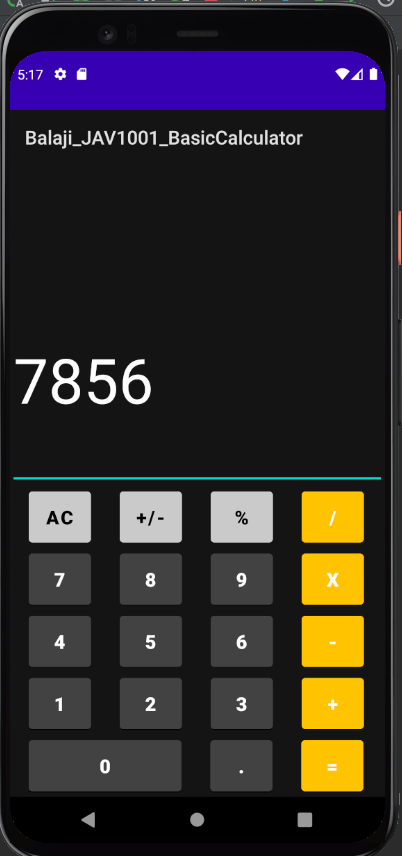
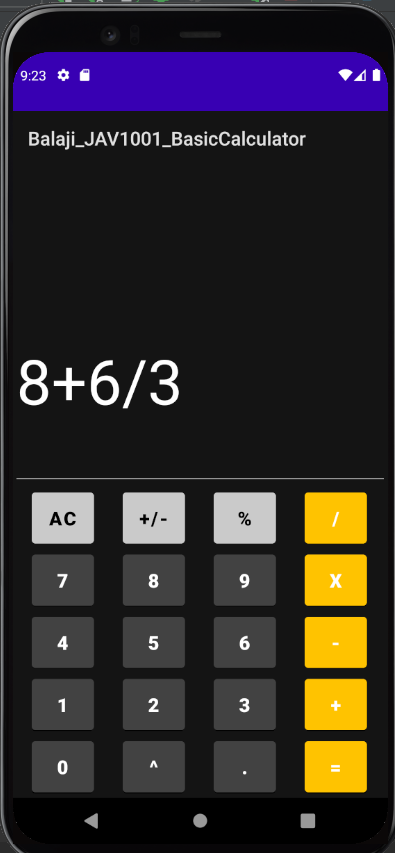
Added power of a number in the code.

Changed region(s): [[0.0, 0.0, 1.0, 1.0], [0.0608, 0.1524, 0.7899, 0.1829]]

diff --git a/app/src/main/java/balaji/ch/balaji_jav1001_basiccalculator/MainActivity.java b/app/src/main/java/balaji/ch/balaji_jav1001_basiccalculator/MainActivity.java
@@ -34,6 +34,7 @@ public class MainActivity extends AppCompatActivity implements View.OnClickListe
         Button buttonEight = findViewById(R.id.buttonEight);
         Button buttonNine = findViewById(R.id.buttonNine);
         Button buttonDecimal = findViewById(R.id.buttonDecimal);
+        Button buttonPower = findViewById(R.id.buttonPower);
 
         Button buttonAddition = findViewById(R.id.buttonAddition);
         Button buttonSubtract = findViewById(R.id.buttonSubtract);
@@ -57,6 +58,7 @@ public class MainActivity extends AppCompatActivity implements View.OnClickListe
         buttonEight.setOnClickListener(this);
         buttonNine.setOnClickListener(this);
         buttonDecimal.setOnClickListener(this);
+        buttonPower.setOnClickListener(this);
 
         buttonAddition.setOnClickListener(this);
         buttonSubtract.setOnClickListener(this);
@@ -74,6 +76,7 @@ public class MainActivity extends AppCompatActivity implements View.OnClickListe
         Button buttonDecimal = findViewById(R.id.buttonDecimal);
         editTextString = String.valueOf(editTextTV.getText());
 
+//        Making the decimal value to be inserted only once 
         if (view.getId() == R.id.buttonDecimal){
             buttonDecimal.setEnabled(false);
         }else if(view.getId() == R.id.buttonAddition || view.getId() == R.id.buttonSubtract ||
@@ -82,21 +85,6 @@ public class MainActivity extends AppCompatActivity implements View.OnClickListe
             buttonDecimal.setEnabled(true);
 
         }
-
-//        Letting the decimal value to be clicked only once
-//        if(editTextString.contains(".")){
-//            int indexOfPriorChar = editTextString.indexOf('.') - 1;
-//            if (indexOfPriorChar<0){ indexOfPriorChar = 0;}
-//
-//            if (Character.isDigit(editTextString.charAt(indexOfPriorChar)) && editTextString.charAt(indexOfPriorChar) != '.'){
-//                buttonDecimal.setEnabled(true);
-//            }
-//            else{
-//                buttonDecimal.setEnabled(false);
-//            }
-//        } else{
-//            buttonDecimal.setEnabled(true);
-//        }
 
 //Calculate when buttons are clicked
         switch(view.getId()){
@@ -142,8 +130,6 @@ public class MainActivity extends AppCompatActivity implements View.OnClickListe
                 break;
 
             case R.id.buttonDecimal:
-                // if prevCHar != digit
-                //      0 first
                 char prev = editTextString.length() > 0 ?
                         editTextString.charAt(editTextString.length() - 1) : '\0';
                 if (Character.isDigit(prev)){
@@ -192,6 +178,10 @@ public class MainActivity extends AppCompatActivity implements View.OnClickListe
                 }
                 editTextTV.setText(editTextString);
                 break;
+            case R.id.buttonPower:
+                editTextString += "^";
+                editTextTV.setText(editTextString);
+                break;
 
             case R.id.buttonAC:
                 editTextString = "";
@@ -200,19 +190,13 @@ public class MainActivity extends AppCompatActivity implements View.OnClickListe
                 break;
             case R.id.buttonResult:
                 BigDecimal result = updateResult(editTextString);
-                /*
-                    if result mod 1 == 0
-                        result = int
-                    Integer.parseInt()
-                    Float.parseFloat()
-
-                 */
                 int roundOffSum = result.intValue();
 
                 if(result.equals(roundOffSum)){
                     editTextTV.setText(String.valueOf(roundOffSum));
                 }else{
                     editTextTV.setText(String.valueOf(result));
+                    findViewById(R.id.buttonDecimal).setEnabled(false);
                 }
                 break;
             default:
@@ -247,6 +231,8 @@ public class MainActivity extends AppCompatActivity implements View.OnClickListe
 
                     String tempString = String.valueOf(stackElements.pop());
                     stackElements.push(new BigDecimal(tempString + "." + currentValue.toString()));
+                }else if(operator=='^'){
+                    stackElements.push((stackElements.pop().pow(currentValue.intValue())));
                 }
                 currentValue = BigDecimal.valueOf(0);
                 operator = charArray[i];
